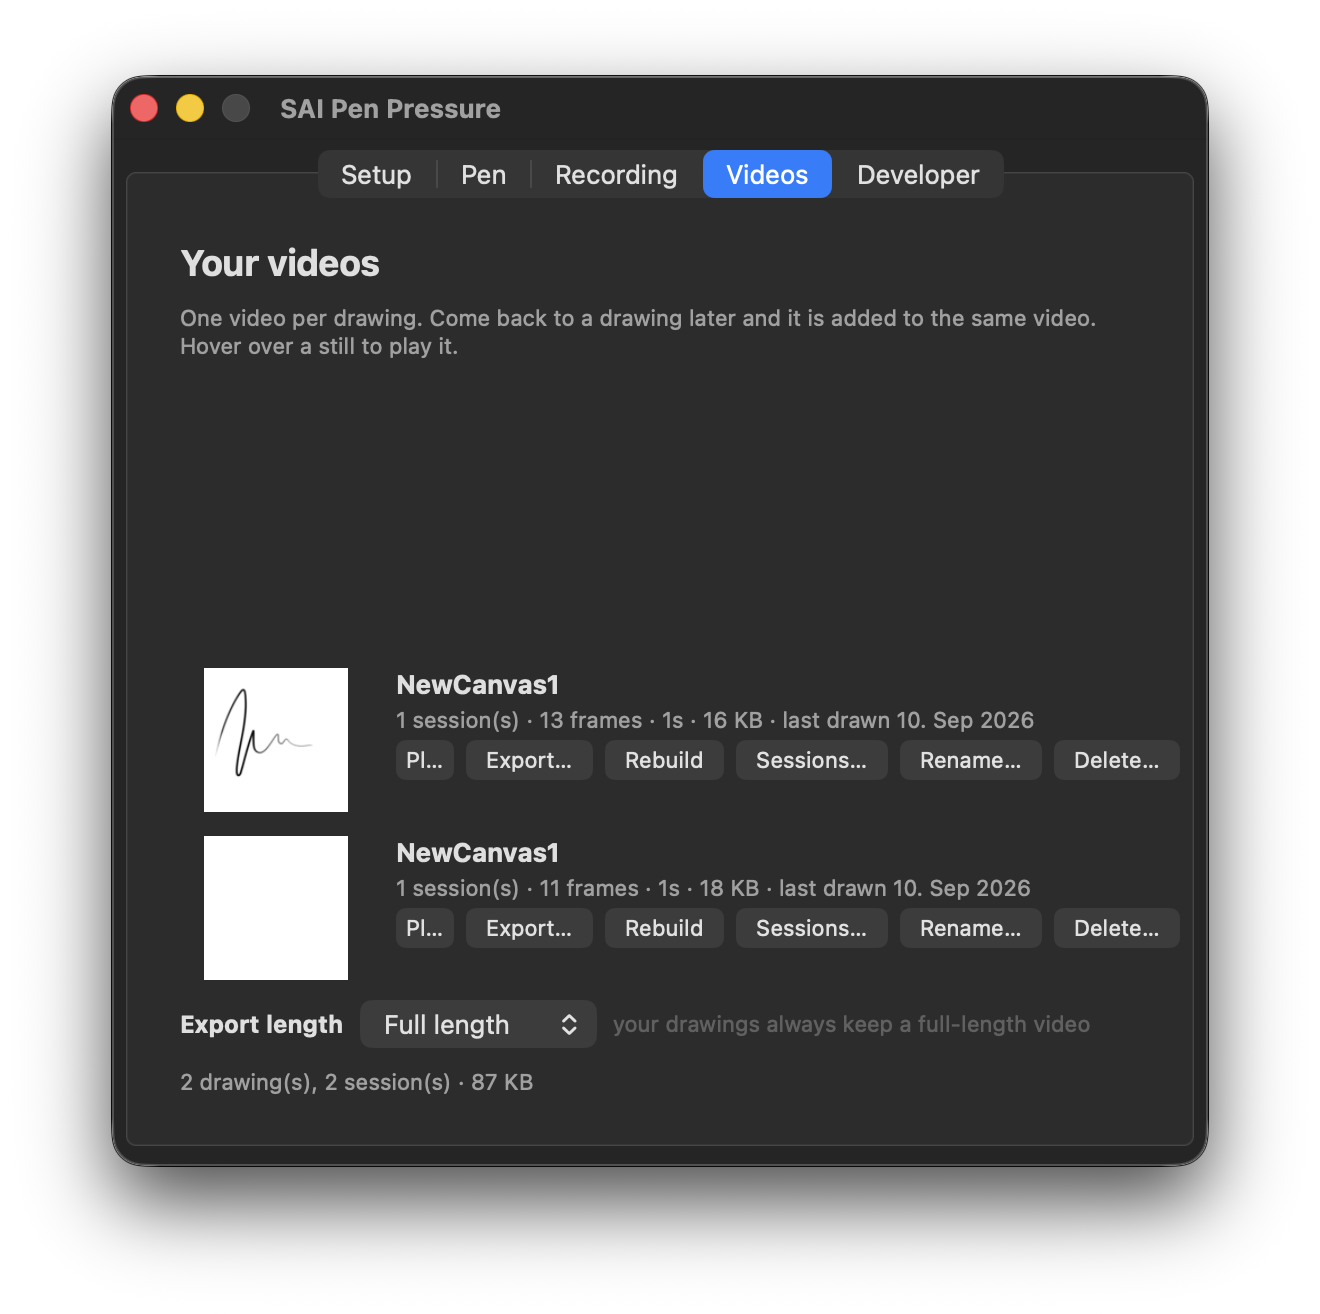
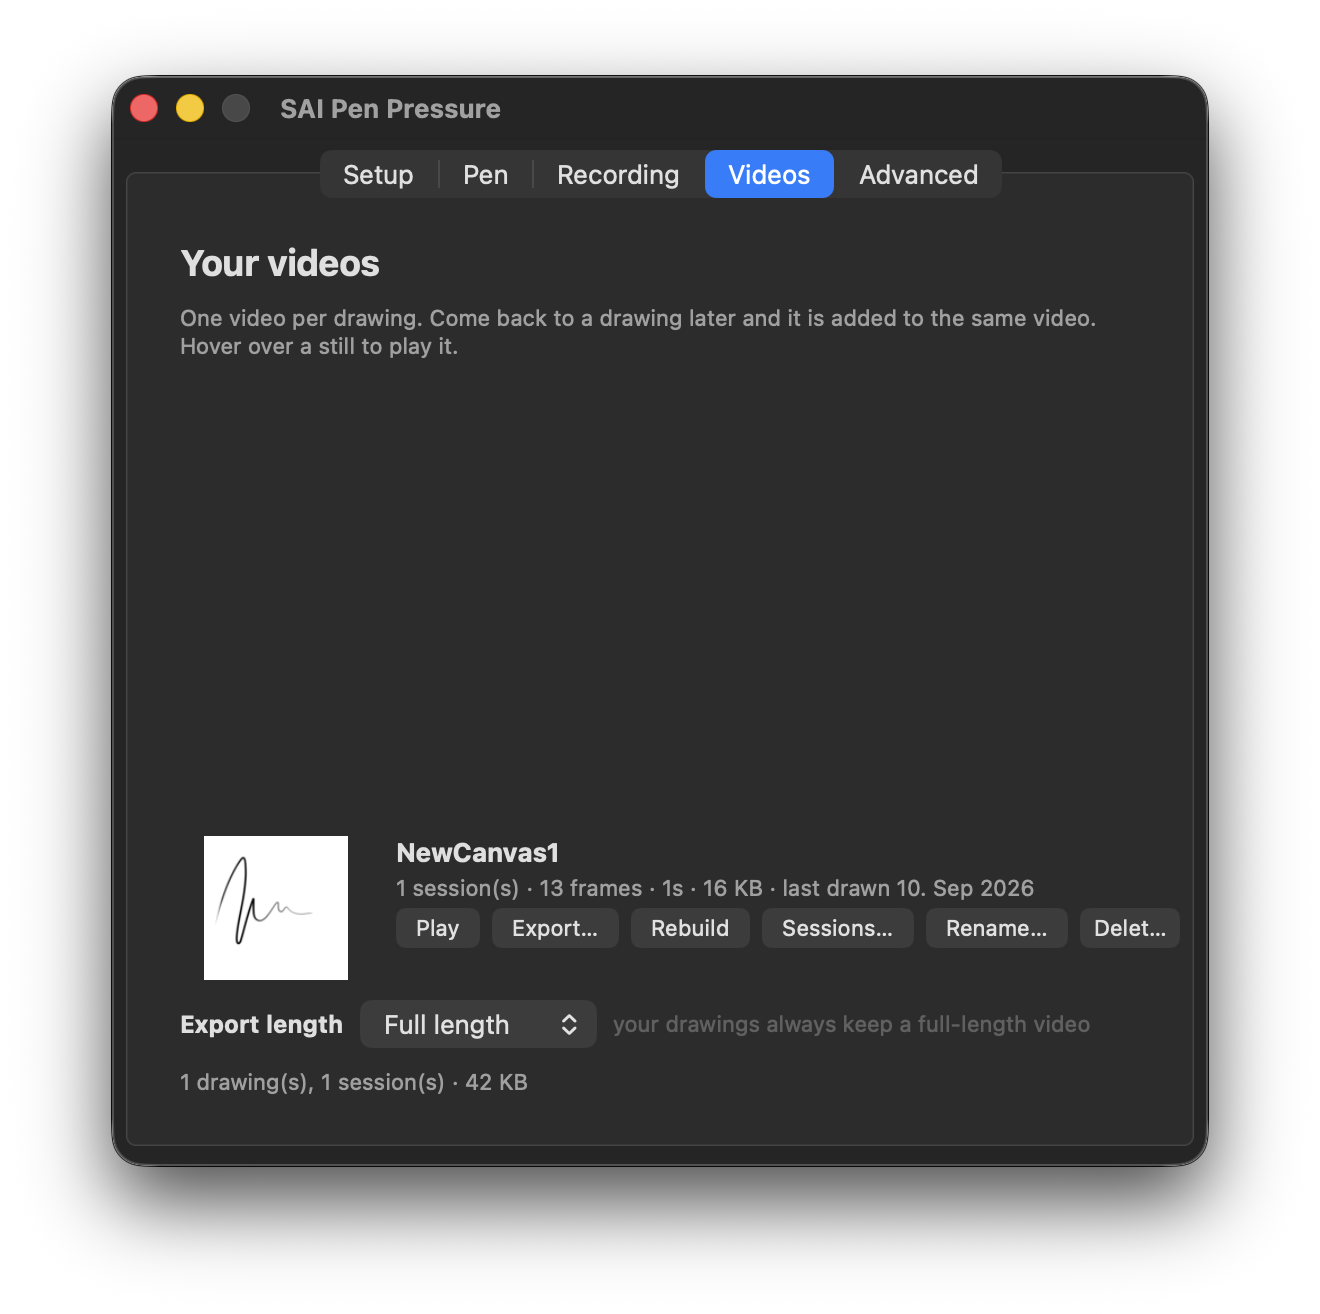
Screenshots of the app as it is now
All five tabs reshot on 0.3.4: the Setup checklist collapsed to one line with the
version and its update check under it, the Pen test showing both bars (what is
being sent, and what is arriving inside Wine), and the tab formerly called
Developer, which is Advanced now and carries the automatic-update setting in
plain sight.

developer.png is gone rather than left behind under a name nothing points at.

diff --git a/README.md b/README.md
@@ -26,7 +26,7 @@ The result: pressure-sensitive strokes that taper with how hard you press.
 Five tabs, one window.
 
 <p align="center">
-  <img src="docs/assets/screenshots/setup.png" alt="Setup tab: Wine, SAI, licence and Input Monitoring all ready, with Launch and Copy problem report" width="49%">
+  <img src="docs/assets/screenshots/setup.png" alt="Setup tab: Wine, SAI, licence and Input Monitoring all ready on one line, with Launch, Copy problem report, and the version with its update check" width="49%">
   <img src="docs/assets/screenshots/pen.png" alt="Pen tab: pressure levels, pen feel, and a live test showing what is being sent and what is arriving inside Wine" width="49%">
 </p>
 <p align="center">
@@ -34,7 +34,7 @@ Five tabs, one window.
   <img src="docs/assets/screenshots/videos.png" alt="Videos tab: one video per drawing, with play, export, rebuild and rename" width="49%">
 </p>
 <p align="center">
-  <img src="docs/assets/screenshots/developer.png" alt="Developer tab: logs, diagnostics, a health check and Copy problem report" width="49%">
+  <img src="docs/assets/screenshots/advanced.png" alt="Advanced tab: developer mode, automatic updates, the logs, a health check and Copy problem report" width="49%">
 </p>
 
 **Setup** gets SAI running and tells you which of the four prerequisites are missing.
@@ -44,7 +44,7 @@ useful because Ver.2 is a rolling preview.
 being sent alongside what is actually arriving on SAI's side of the bridge.
 **Recording** is the canvas timelapse.
 **Videos** lists one video per drawing, and keeps adding to it when you come back to that drawing.
-**Developer** holds the logs, a diagnostics dump and a health check.
+**Advanced** is where updates install themselves if you want them to, and where the logs, a diagnostics dump and a health check live.
 
 ---
 

diff --git a/docs/troubleshooting.md b/docs/troubleshooting.md
@@ -143,7 +143,7 @@ Cosmetic — drawing is unaffected. Moving the pen usually clears it.
 
 ## Something else — collect diagnostics
 
-Press **Copy problem report** on the **Setup** tab and paste it into an issue. No Developer mode
+Press **Copy problem report** on the **Setup** tab and paste it into an issue. No developer mode
 needed. It reports the build, your Mac and chip, the macOS and Wine versions, your tablet and how
 it is connected, what is installed where, whether Wine is loading the pressure bridge or ignoring
 it, what SAI last received, and the tail of the log. That is almost everything anyone would
